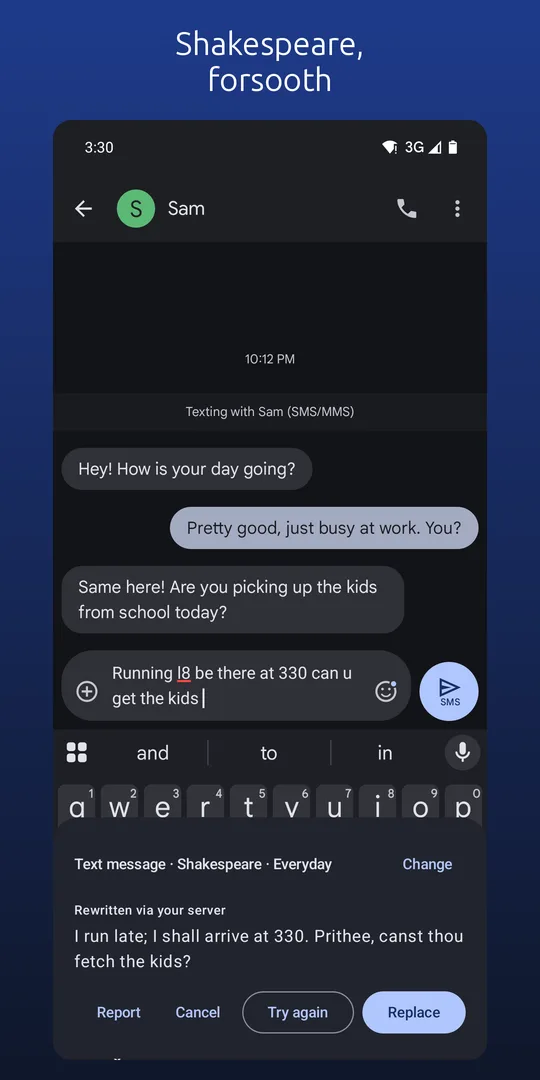
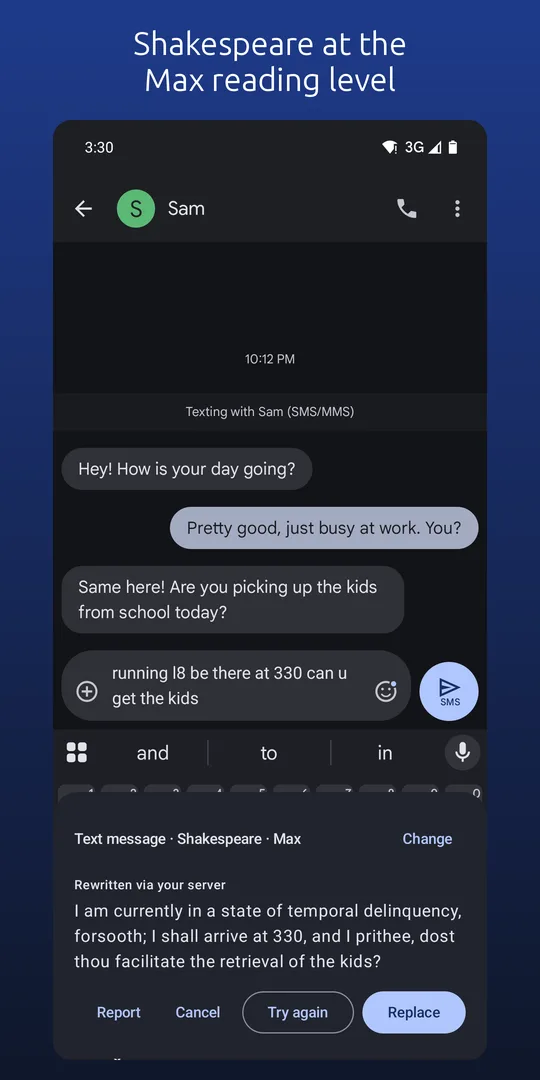
Shakespeare at the Max reading level

diff --git a/index.html b/index.html
@@ -85,7 +85,7 @@ box, with a few seconds to undo. Your keyboard stays where it is.</p>
   <li><a href="screens/07-email.webp"><img src="screens/07-email.webp" alt="An email rewrite with a greeting and sign-off" width="540" height="1080" loading="lazy"></a></li>
   <li><a href="screens/08-genz.webp"><img src="screens/08-genz.webp" alt="A Gen Z rewrite" width="540" height="1080" loading="lazy"></a></li>
   <li><a href="screens/09-linkedin.webp"><img src="screens/09-linkedin.webp" alt="A LinkedIn Speak rewrite, for laughs" width="540" height="1080" loading="lazy"></a></li>
-  <li><a href="screens/10-shakespeare.webp"><img src="screens/10-shakespeare.webp" alt="A Shakespeare rewrite" width="540" height="1080" loading="lazy"></a></li>
+  <li><a href="screens/10-shakespeare.webp"><img src="screens/10-shakespeare.webp" alt="A Shakespeare rewrite at the Max reading level" width="540" height="1080" loading="lazy"></a></li>
   <li><a href="screens/11-pirate.webp"><img src="screens/11-pirate.webp" alt="A Pirate rewrite" width="540" height="1080" loading="lazy"></a></li>
   <li><a href="screens/12-stupid.webp"><img src="screens/12-stupid.webp" alt="A Stupid reading level rewrite, for laughs" width="540" height="1080" loading="lazy"></a></li>
   <li><a href="screens/13-still.webp"><img src="screens/13-still.webp" alt="The panel saying the AI is still working and may be starting up" width="540" height="1080" loading="lazy"></a></li>
